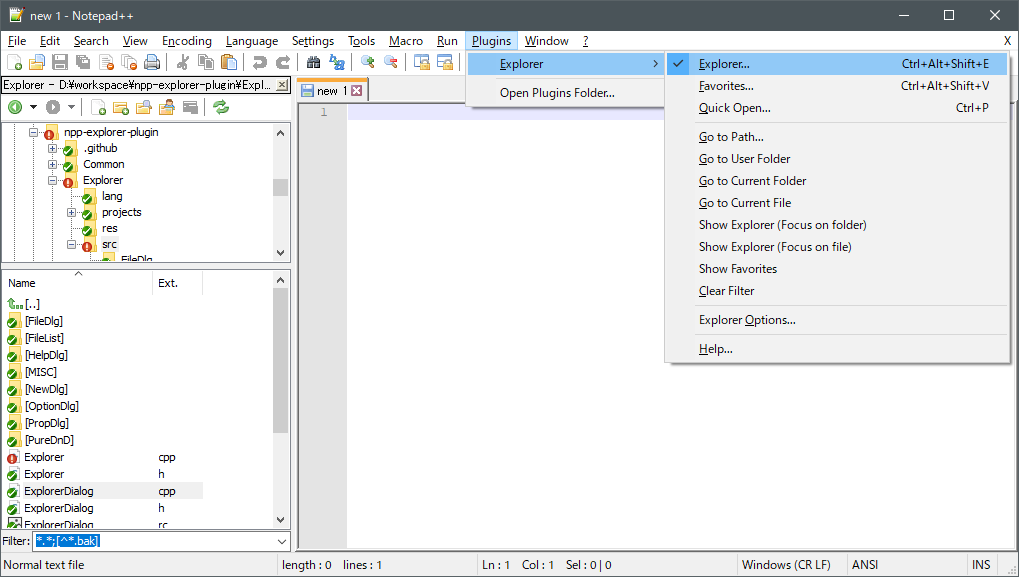
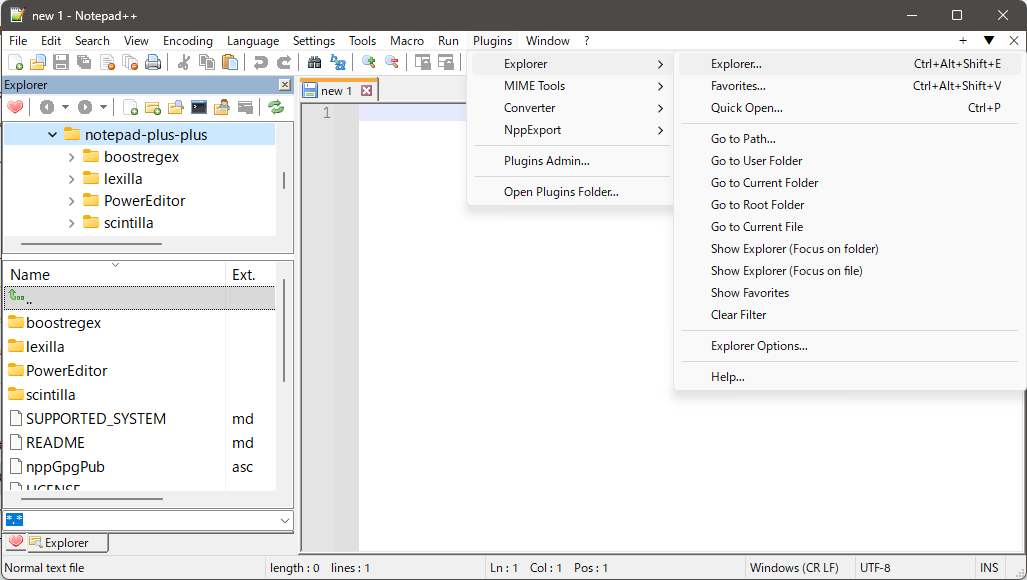
update screenshot

Changed region(s): [[0.0, 0.0, 1.0, 1.0], [0.9127, 0.0, 0.9431, 0.0312], [0.1521, 0.7799, 0.1825, 0.8111]]

diff --git a/README.md b/README.md
@@ -8,6 +8,8 @@ You could easy browse through files and edit sources in Notepad++.
 - Quick Open Feature.  
   If you press <kbd>Ctrl+P</kbd>, the Fuzzy Finder will pop up.  
   This will let you quickly search for any file in current path by typing parts of the file name.
+- Full tree Feature.  
+  Ability to display files in a tree view like Light Explorer.
 - And, minor bug fixes. See also the [Releases] for more information.
 
 ## Download
@@ -16,6 +18,9 @@ https://github.com/funap/npp-explorer-plugin/releases
 ## Screenshot
 - Explorer Panel & Plugin Menu  
   ![Screenshot]
+
+- Explorer Panel (use Full tree)
+  ![Screenshot2]
 
 - Quick Open  
   ![QuickOpen]
@@ -47,5 +52,6 @@ This project is licensed under the terms of the GNU GPL v2.0 license
 [Explorer]: http://sourceforge.net/projects/npp-plugins/files/Explorer/
 [Notepad++]: http://notepad-plus-plus.org/
 [Screenshot]: https://raw.githubusercontent.com/funap/npp-explorer-plugin/master/.github/screenshot.png "Screenshot"
+[Screenshot2]: https://raw.githubusercontent.com/funap/npp-explorer-plugin/master/.github/screenshot2.png "Screenshot2"
 [QuickOpen]: https://raw.githubusercontent.com/funap/npp-explorer-plugin/master/.github/quickopen.gif "Screenshot"
 [releases]: https://github.com/funap/npp-explorer-plugin/releases
